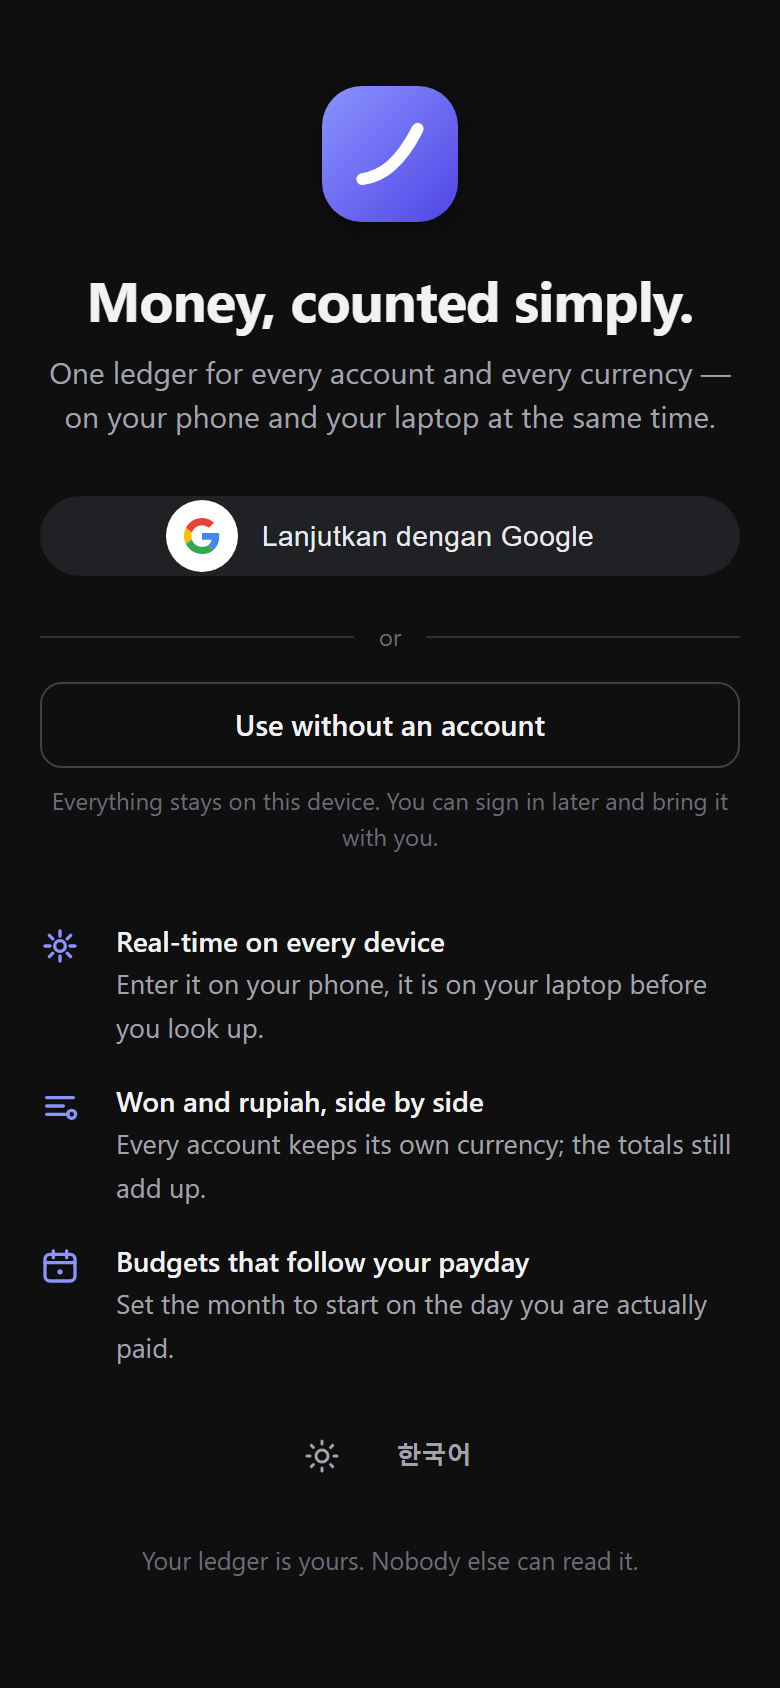
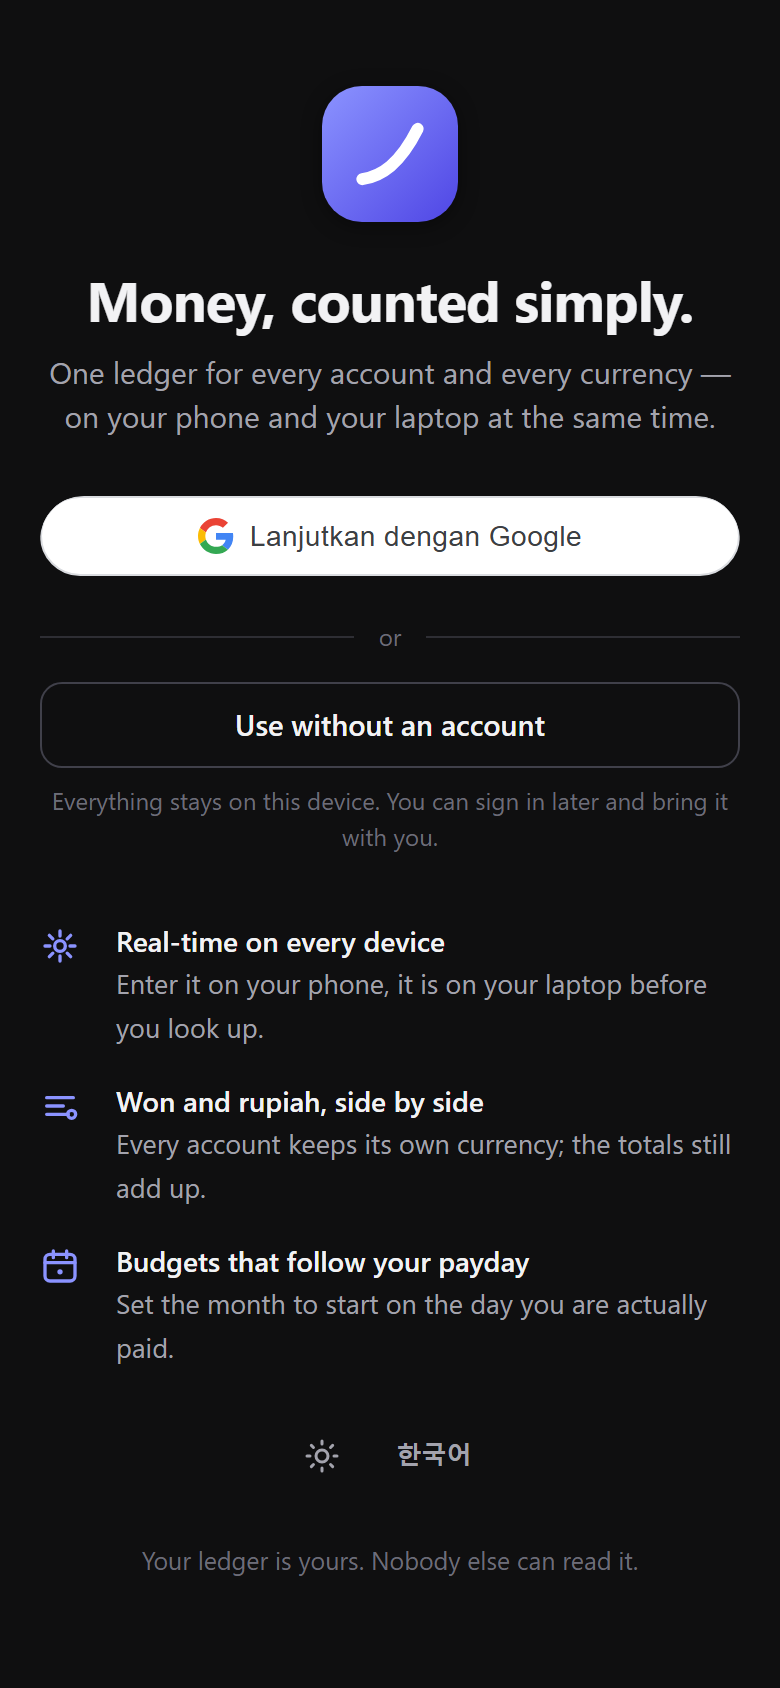
Ask Google for its light button, and round off the box it draws in
On an origin Google knows, it renders the sign-in button inside an iframe
whose document it paints white and sizes to the width it was asked for
rather than to the button. A dark button in there is a black pill in a white
box; for an account it already recognises, where the pill is wider and the
box wider still, it is a black pill in a thick white frame. That is what was
on screen.

The iframe's document is Google's, so its colour is not ours to change. The
button's is: asked for in its light theme, the box and the button are the
same white, and the seam disappears at any width Google picks. The slot
rounds the corners off so what is left is a pill rather than a white
rectangle.

Photographed against the live site before and after, at three widths and
three themes, because the local server gets a different rendering.

Changed region(s): [[0.0308, 0.2773, 0.9538, 0.3389]]

diff --git a/store.js b/store.js
@@ -31,7 +31,7 @@ import {
   googleClientId,
   hasGoogleClientId,
   isConfigured,
-} from "./supabase-config.js?v=6";
+} from "./supabase-config.js?v=7";
 import {
   normalizeAccount,
   normalizeCategory,
@@ -44,7 +44,7 @@ import {
   startersMayFollow,
   starterRename,
   DEFAULT_CURRENCY,
-} from "./money.js?v=6";
+} from "./money.js?v=7";
 
 // Pinned exactly. A CDN that silently moves to a new major version is a
 // deploy you did not make, at a time you did not choose.
@@ -141,7 +141,7 @@ export function loadGoogleIdentity() {
  * audience — before any session exists. What crosses this boundary is a
  * proof, not a claim.
  */
-export async function renderGoogleButton(el, { theme = "dark", locale = "en", onSignIn, onError }) {
+export async function renderGoogleButton(el, { locale = "en", onSignIn, onError }) {
   const ready = await loadGoogleIdentity();
   if (!ready) return false;
   const gid = globalThis.google.accounts.id;
@@ -169,7 +169,17 @@ export async function renderGoogleButton(el, { theme = "dark", locale = "en", on
     el.innerHTML = "";
     gid.renderButton(el, {
       type: "standard",
-      theme: theme === "light" ? "outline" : "filled_black",
+      // Light in both themes, and not a choice about taste.
+      //
+      // On a registered origin Google renders this into an iframe whose
+      // document it paints white, sized to the width asked for rather than
+      // to the button inside it. A dark button in there is a black pill in
+      // a white box — and for an account Google already knows, where the
+      // pill is wider and the box wider still, a black pill in a white
+      // frame. `outline` is white too, so the box and the button are the
+      // same colour and the seam disappears, whatever width Google picks.
+      // The stylesheet rounds the slot off to match.
+      theme: "outline",
       size: "large",
       shape: "pill",
       text: "continue_with",

diff --git a/styles.css b/styles.css
@@ -329,18 +329,31 @@ a {
   font-size: 15px;
 }
 
+/* Rounded off, and clipping what it holds.
+
+   On a registered origin Google renders its button inside an iframe whose
+   document it paints white and sizes to the width it was asked for, not to
+   the button. Square white corners on a dark page are the giveaway; for an
+   account Google already knows, the pill inside is a different width again,
+   which is how a black button ended up in a white frame. The button is
+   asked for in its light theme (see renderGoogleButton) so the box and the
+   button are the same colour, and this makes the box the right shape. */
 .login-btn-slot {
   display: flex;
   justify-content: center;
   min-height: 44px;
+  border-radius: 999px;
+  overflow: hidden;
 }
 
-/* Google draws its button into that slot as ordinary elements in this
-   document, not an iframe — so its wrappers are ours to correct. For an
-   account it already knows it renders a wider "Continue as …" pill inside a
-   container it paints white, which on a dark page is a hard white frame
-   around a black button. Only the wrappers are neutralised here: the button
-   itself, and the white circle its logo sits in, keep their own colours. */
+.login-btn-slot iframe {
+  display: block;
+}
+
+/* Where Google renders in the page instead — on an origin it has not been
+   told about, such as a local server — the same containers are ours to
+   correct. The button itself, and the white circle its logo sits in, keep
+   their own colours. */
 .login-btn-slot > div,
 .login-btn-slot > div > div,
 .login-btn-slot > div > div > div:not([role="button"]) {

diff --git a/index.html b/index.html
@@ -9,7 +9,7 @@
   <meta name="theme-color" content="#0f0f10" />
   <!-- Bumped on every deploy by bump-version.sh. The app polls version.json
        and offers a reload when this no longer matches. -->
-  <meta name="app-version" content="6" />
+  <meta name="app-version" content="7" />
 
   <title>Tally — Money manager · 가계부</title>
   <meta name="description" content="Tally is a fast, private money manager. Track every account and every currency in one ledger, with Google sign-in, real-time sync across your phone and laptop, and budgets that follow your payday. 원과 루피아를 한 장부에. 구글 로그인, 모든 기기 실시간 동기화." />
@@ -77,7 +77,7 @@
   </script>
 
   <!-- Bump ?v= every deploy so browsers fetch fresh CSS and JS. -->
-  <link rel="stylesheet" href="./styles.css?v=6" />
+  <link rel="stylesheet" href="./styles.css?v=7" />
 
   <!-- Set the theme and language before the first paint, so there is never a
        flash of the wrong colours or the wrong words. Defaults: dark, English.
@@ -262,6 +262,6 @@
        raiseToasts() in app.js. -->
   <div class="toast-wrap" id="toasts" popover="manual" role="status" aria-live="polite"></div>
 
-  <script type="module" src="./app.js?v=6"></script>
+  <script type="module" src="./app.js?v=7"></script>
 </body>
 </html>

diff --git a/app.js b/app.js
@@ -17,9 +17,9 @@ import {
   hasSupabaseUrl,
   hasSupabaseKey,
   hasGoogleClientId,
-} from "./supabase-config.js?v=6";
-import * as S from "./store.js?v=6";
-import * as M from "./money.js?v=6";
+} from "./supabase-config.js?v=7";
+import * as S from "./store.js?v=7";
+import * as M from "./money.js?v=7";
 import {
   t,
   setLang,
@@ -31,7 +31,7 @@ import {
   formatTime,
   formatPercent,
   weekdayShort,
-} from "./i18n.js?v=6";
+} from "./i18n.js?v=7";
 
 // ------------------------------------------------------------
 //  Tiny DOM helpers
@@ -716,7 +716,6 @@ function renderLogin() {
   };
 
   S.renderGoogleButton($("googleSlot"), {
-    theme: document.documentElement.getAttribute("data-theme"),
     locale: getLang(),
     onSignIn: () => show($("loginError"), false),
     onError: () => showLoginError(t("err.auth.generic")),

diff --git a/tests.html b/tests.html
@@ -5,7 +5,7 @@
   <meta name="viewport" content="width=device-width, initial-scale=1" />
   <title>Tally — tests</title>
   <link rel="icon" href="./favicon.svg" />
-  <link rel="stylesheet" href="./styles.css?v=6" />
+  <link rel="stylesheet" href="./styles.css?v=7" />
   <style>
     main { max-width: 760px; margin: 0 auto; padding: 24px 16px 60px; }
     .verdict { font-size: 20px; font-weight: 650; margin: 0 0 4px; }
@@ -34,7 +34,7 @@
   </main>
 
   <script type="module">
-    import { runTests } from "./tests.js?v=6";
+    import { runTests } from "./tests.js?v=7";
 
     const { results, passed, failed } = await runTests();
     const verdict = document.getElementById("verdict");

diff --git a/sw.js b/sw.js
@@ -15,16 +15,16 @@
 //  someone yesterday's balance and call it today's.
 // ============================================================
 
-const VERSION = "tally-v6";
+const VERSION = "tally-v7";
 const SHELL = [
   "./",
   "./index.html",
-  "./app.js?v=6",
-  "./store.js?v=6",
-  "./money.js?v=6",
-  "./i18n.js?v=6",
-  "./supabase-config.js?v=6",
-  "./styles.css?v=6",
+  "./app.js?v=7",
+  "./store.js?v=7",
+  "./money.js?v=7",
+  "./i18n.js?v=7",
+  "./supabase-config.js?v=7",
+  "./styles.css?v=7",
   "./favicon.svg",
   "./icon-192.png",
   "./icon-512.png",

diff --git a/tests.js b/tests.js
@@ -13,7 +13,7 @@
 //  currency you have since changed.
 // ============================================================
 
-import * as M from "./money.js?v=6";
+import * as M from "./money.js?v=7";
 
 const tests = [];
 const test = (name, fn) => tests.push({ name, fn });
